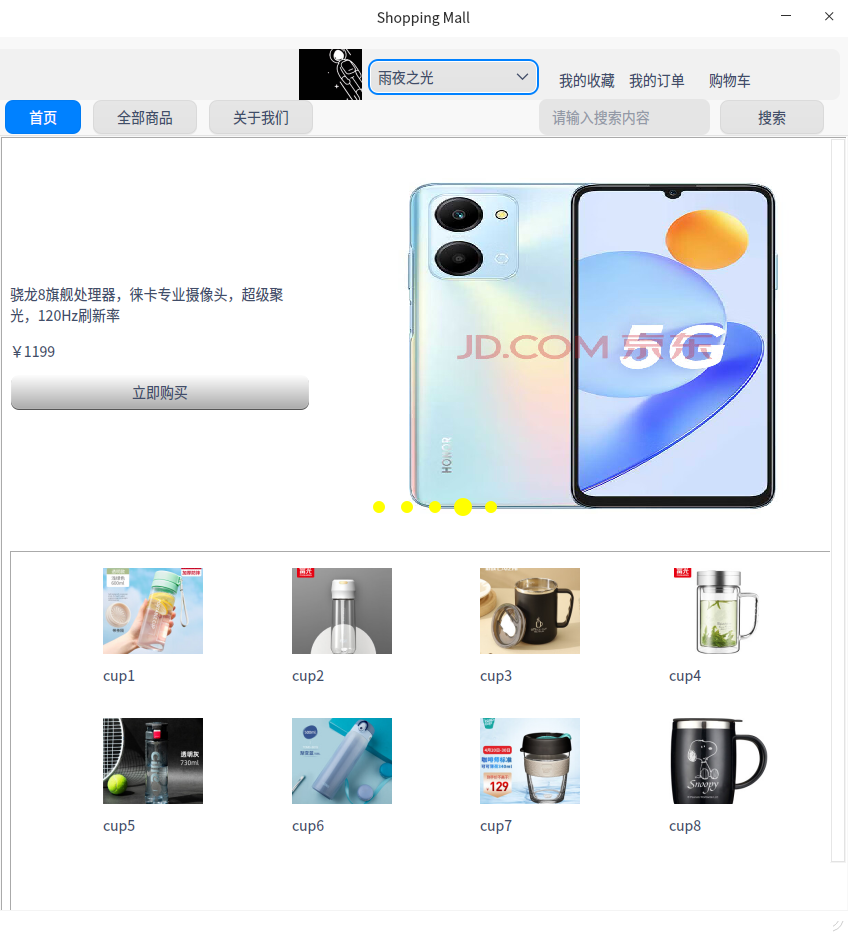
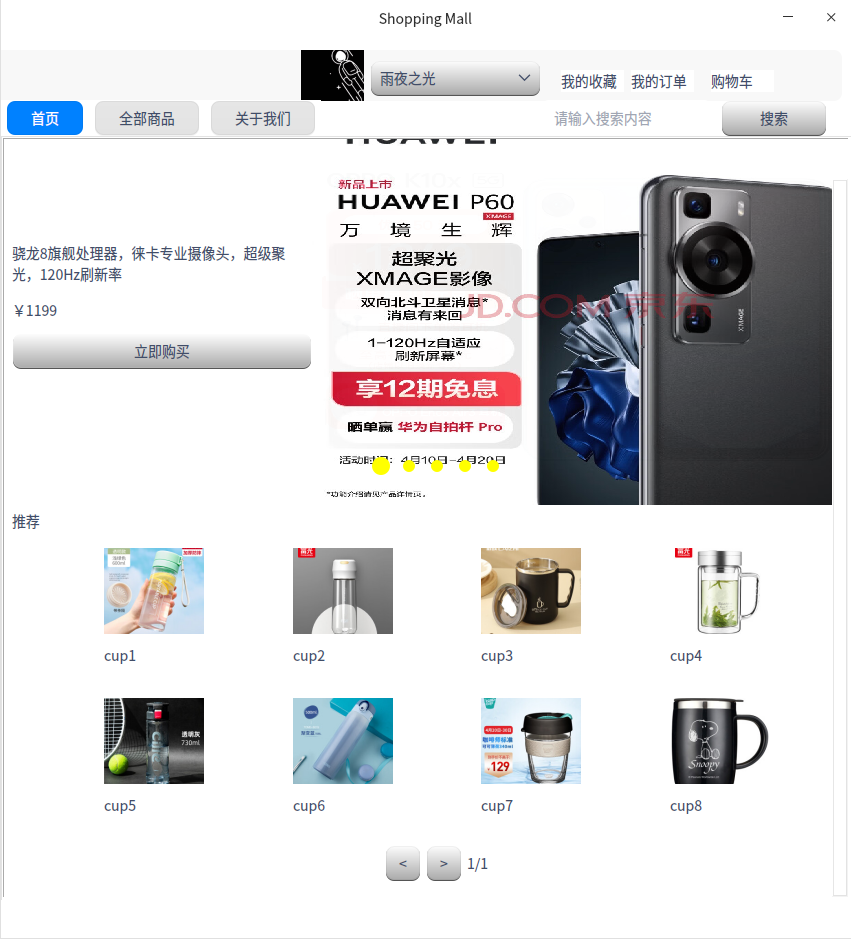
主页面做了一些美化

diff --git a/ui/home/home.cpp b/ui/home/home.cpp
@@ -85,9 +85,10 @@ void Home::init_ui()
     ui->tabWidget->setTabText(0, tr("首页"));
     ui->tabWidget->setTabText(1, tr("全部商品"));
     ui->tabWidget->setTabText(2, tr("关于我们"));
-    ui->tabWidget->setFixedSize(QSize(850, 850));
+    ui->tabWidget->setFixedSize(QSize(850, 800));
     this->setFixedSize(QSize(850, 900));
 
+    this->setStyleSheet("background-color:white;");
     QWidget *scroll_widget = new QWidget(ui->first_tab);
     QVBoxLayout *vLayout = new QVBoxLayout;
     CarouselImageWidget *carousel_img = new CarouselImageWidget(scroll_widget);
@@ -103,14 +104,43 @@ void Home::init_ui()
     carousel_img->setImageChangeDuration(2000);
     carousel_img->startPlay();
     vLayout->addWidget(carousel_img);
-    qInfo() << "tttttttttttttttttttt height:" << carousel_img->height() << ", width:" << carousel_img->width();
+    QLabel *list_label = new QLabel(scroll_widget);
+    list_label->setText(tr("推荐"));
+    vLayout->addWidget(list_label);
+    // qInfo() << "tttttttttttttttttttt height:" << carousel_img->height() << ", width:" << carousel_img->width();
 
     // 增加滚动条
     QListWidget *product_listWidget = new QListWidget(scroll_widget);
     init_product_info(product_listWidget);
+    // QListWidget不显示边框
+    product_listWidget->setFrameShape(QListWidget::NoFrame);
+    // QListWidget不显示滚动条
+    product_listWidget->setVerticalScrollBarPolicy(Qt::ScrollBarAlwaysOff);
+    product_listWidget->setHorizontalScrollBarPolicy(Qt::ScrollBarAlwaysOff);
+
     vLayout->addWidget(product_listWidget);
+
+    QWidget *page_info_widget = new QWidget(scroll_widget);
+
+    QHBoxLayout *pageInfoLayout = new QHBoxLayout;
+    QPushButton *pre_btn = new QPushButton(page_info_widget);
+    QPushButton *next_btn = new QPushButton(page_info_widget);
+    pre_btn->setText("<");
+    next_btn->setText(">");
+    QLabel *page_label = new QLabel(page_info_widget);
+    page_label->setText(QString("1/1"));
+    pageInfoLayout->addStretch();
+    pageInfoLayout->addWidget(pre_btn);
+    pageInfoLayout->addWidget(next_btn);
+    pageInfoLayout->addWidget(page_label);
+    page_info_widget->setLayout(pageInfoLayout);
+    page_info_widget->setFixedWidth(850);
+    pageInfoLayout->addStretch();
+
+    vLayout->addWidget(page_info_widget);
+
     scroll_widget->setLayout(vLayout);
-    scroll_widget->setFixedSize(QSize(850, 900));
+    scroll_widget->setFixedSize(QSize(850, 800));
 
     this->setWindowTitle(tr("Shopping Mall"));
     // 窗体没有最大化最小化按钮
@@ -125,6 +155,10 @@ void Home::init_ui()
     QScrollArea *m_pScroll = new QScrollArea(this);
     // 给centralwidget设置滚动条
     m_pScroll->setWidget(scroll_widget);
+    // 隐藏竖向滚动条
+    // m_pScroll->setVerticalScrollBarPolicy(Qt::ScrollBarAlwaysOff);
+    // 隐藏横向滚动条
+    m_pScroll->setHorizontalScrollBarPolicy(Qt::ScrollBarAlwaysOff);
 
     // 这里注意，要比主窗体的尺寸要大，不然太小的话会留下一片空白
     // ui->centralwidget->setMinimumSize(1500,1000);
@@ -134,6 +168,9 @@ void Home::init_ui()
     pLayout->setMargin(0);
     pLayout->setSpacing(0);
     ui->first_tab->setLayout(pLayout);
+
+    // 不显示状态栏
+    ui->statusbar->hide();
 
     connect(ui->tabWidget, SIGNAL(currentChanged(int)), this, SLOT(on_tab_change(int)));
     connect(ui->search_btn, SIGNAL(clicked()), this, SLOT(on_search_btn_clicked()));
